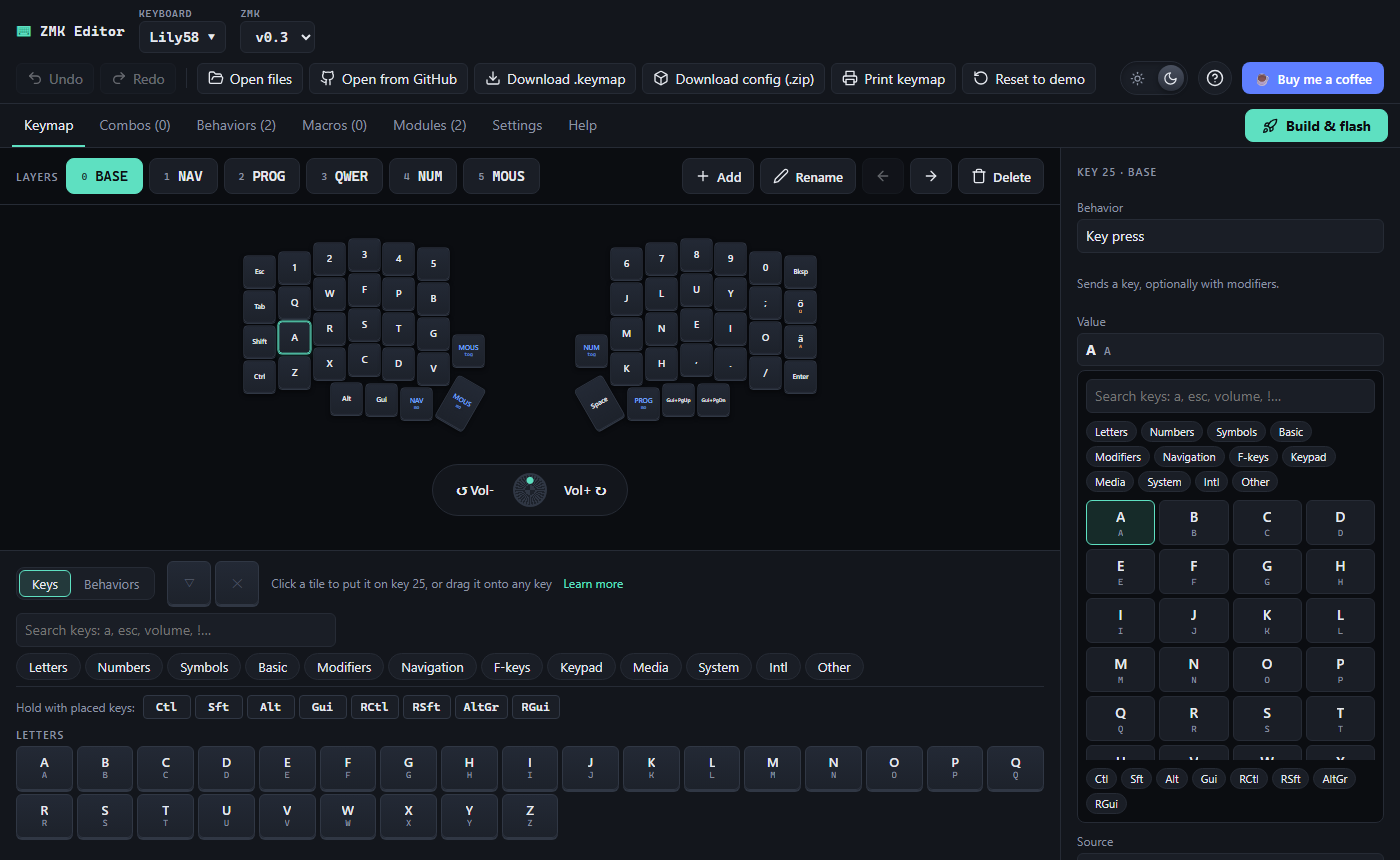
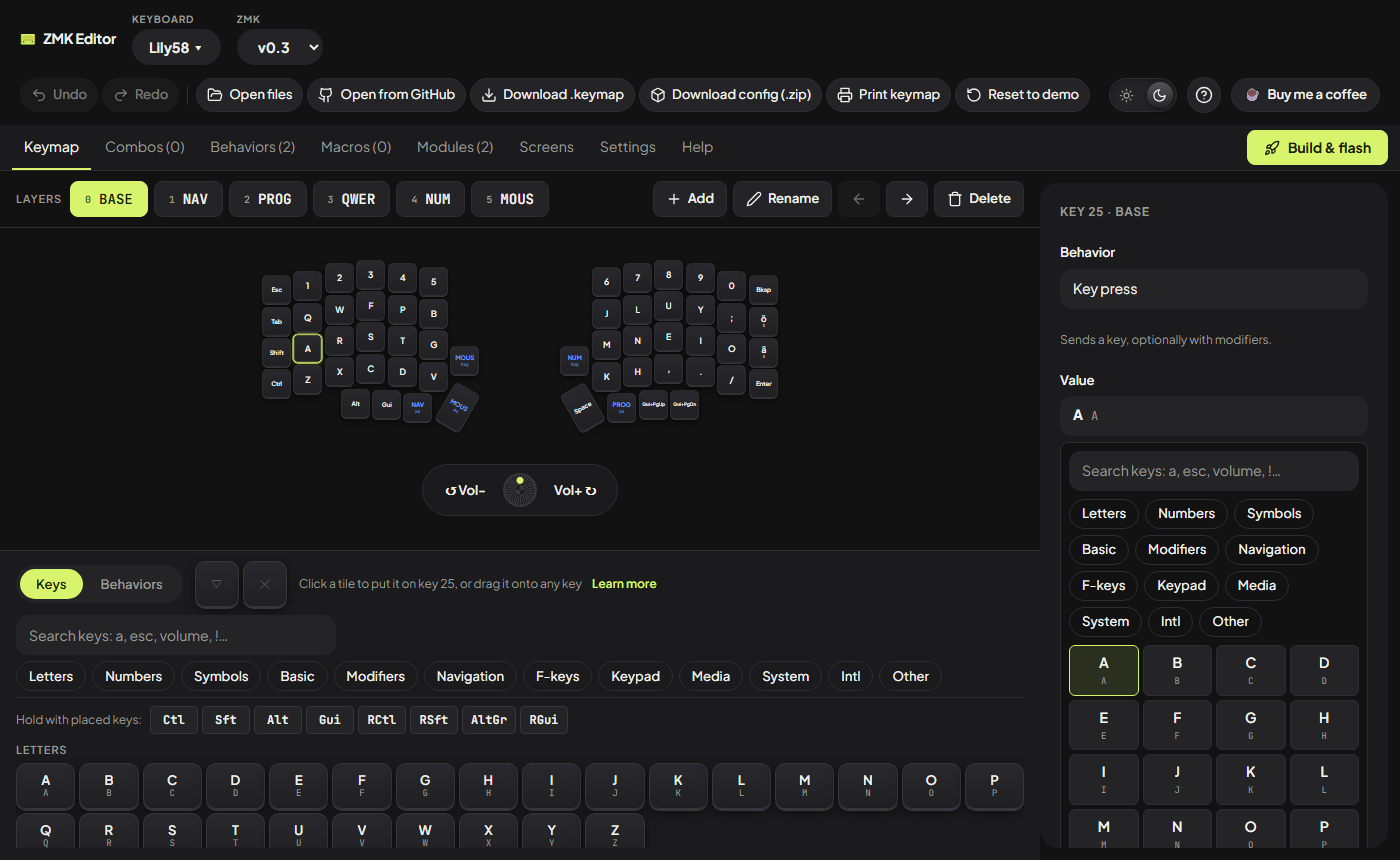
Refresh README screenshots for the new look; space the side panel from the tabs

diff --git a/src/ui/styles/shell.css b/src/ui/styles/shell.css
@@ -144,7 +144,7 @@
 }
 
 .panel {
-  margin: 0 var(--s-3) var(--s-3) 0;
+  margin: var(--s-3) var(--s-3) var(--s-3) 0;
   padding: var(--s-5);
   border-radius: var(--r-lg);
   background: var(--surface);
